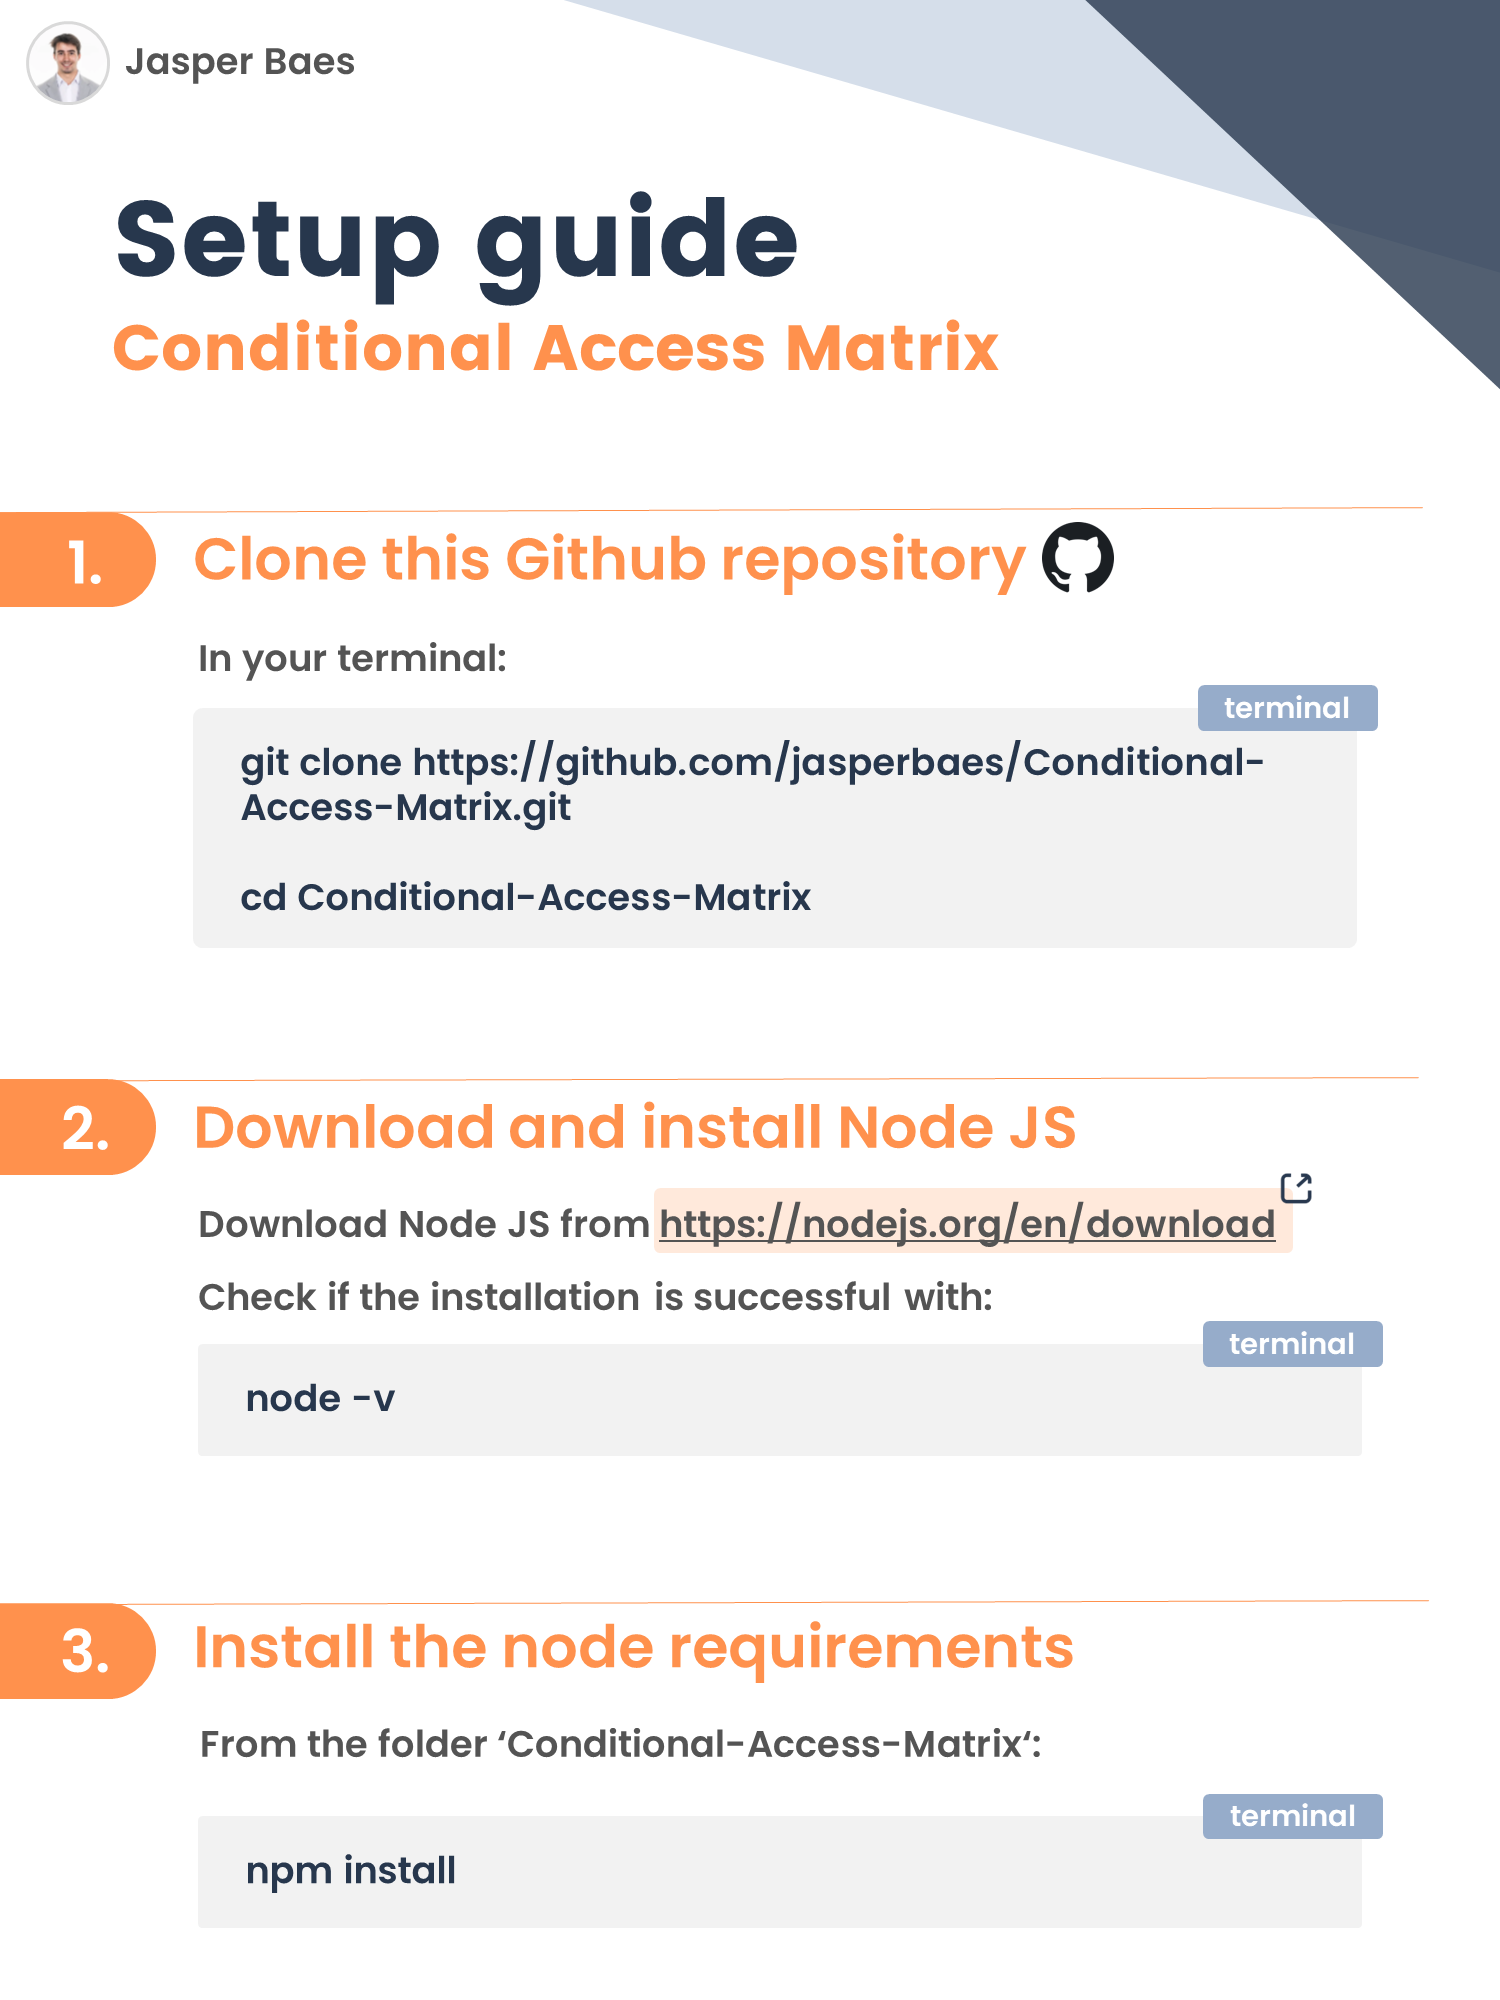
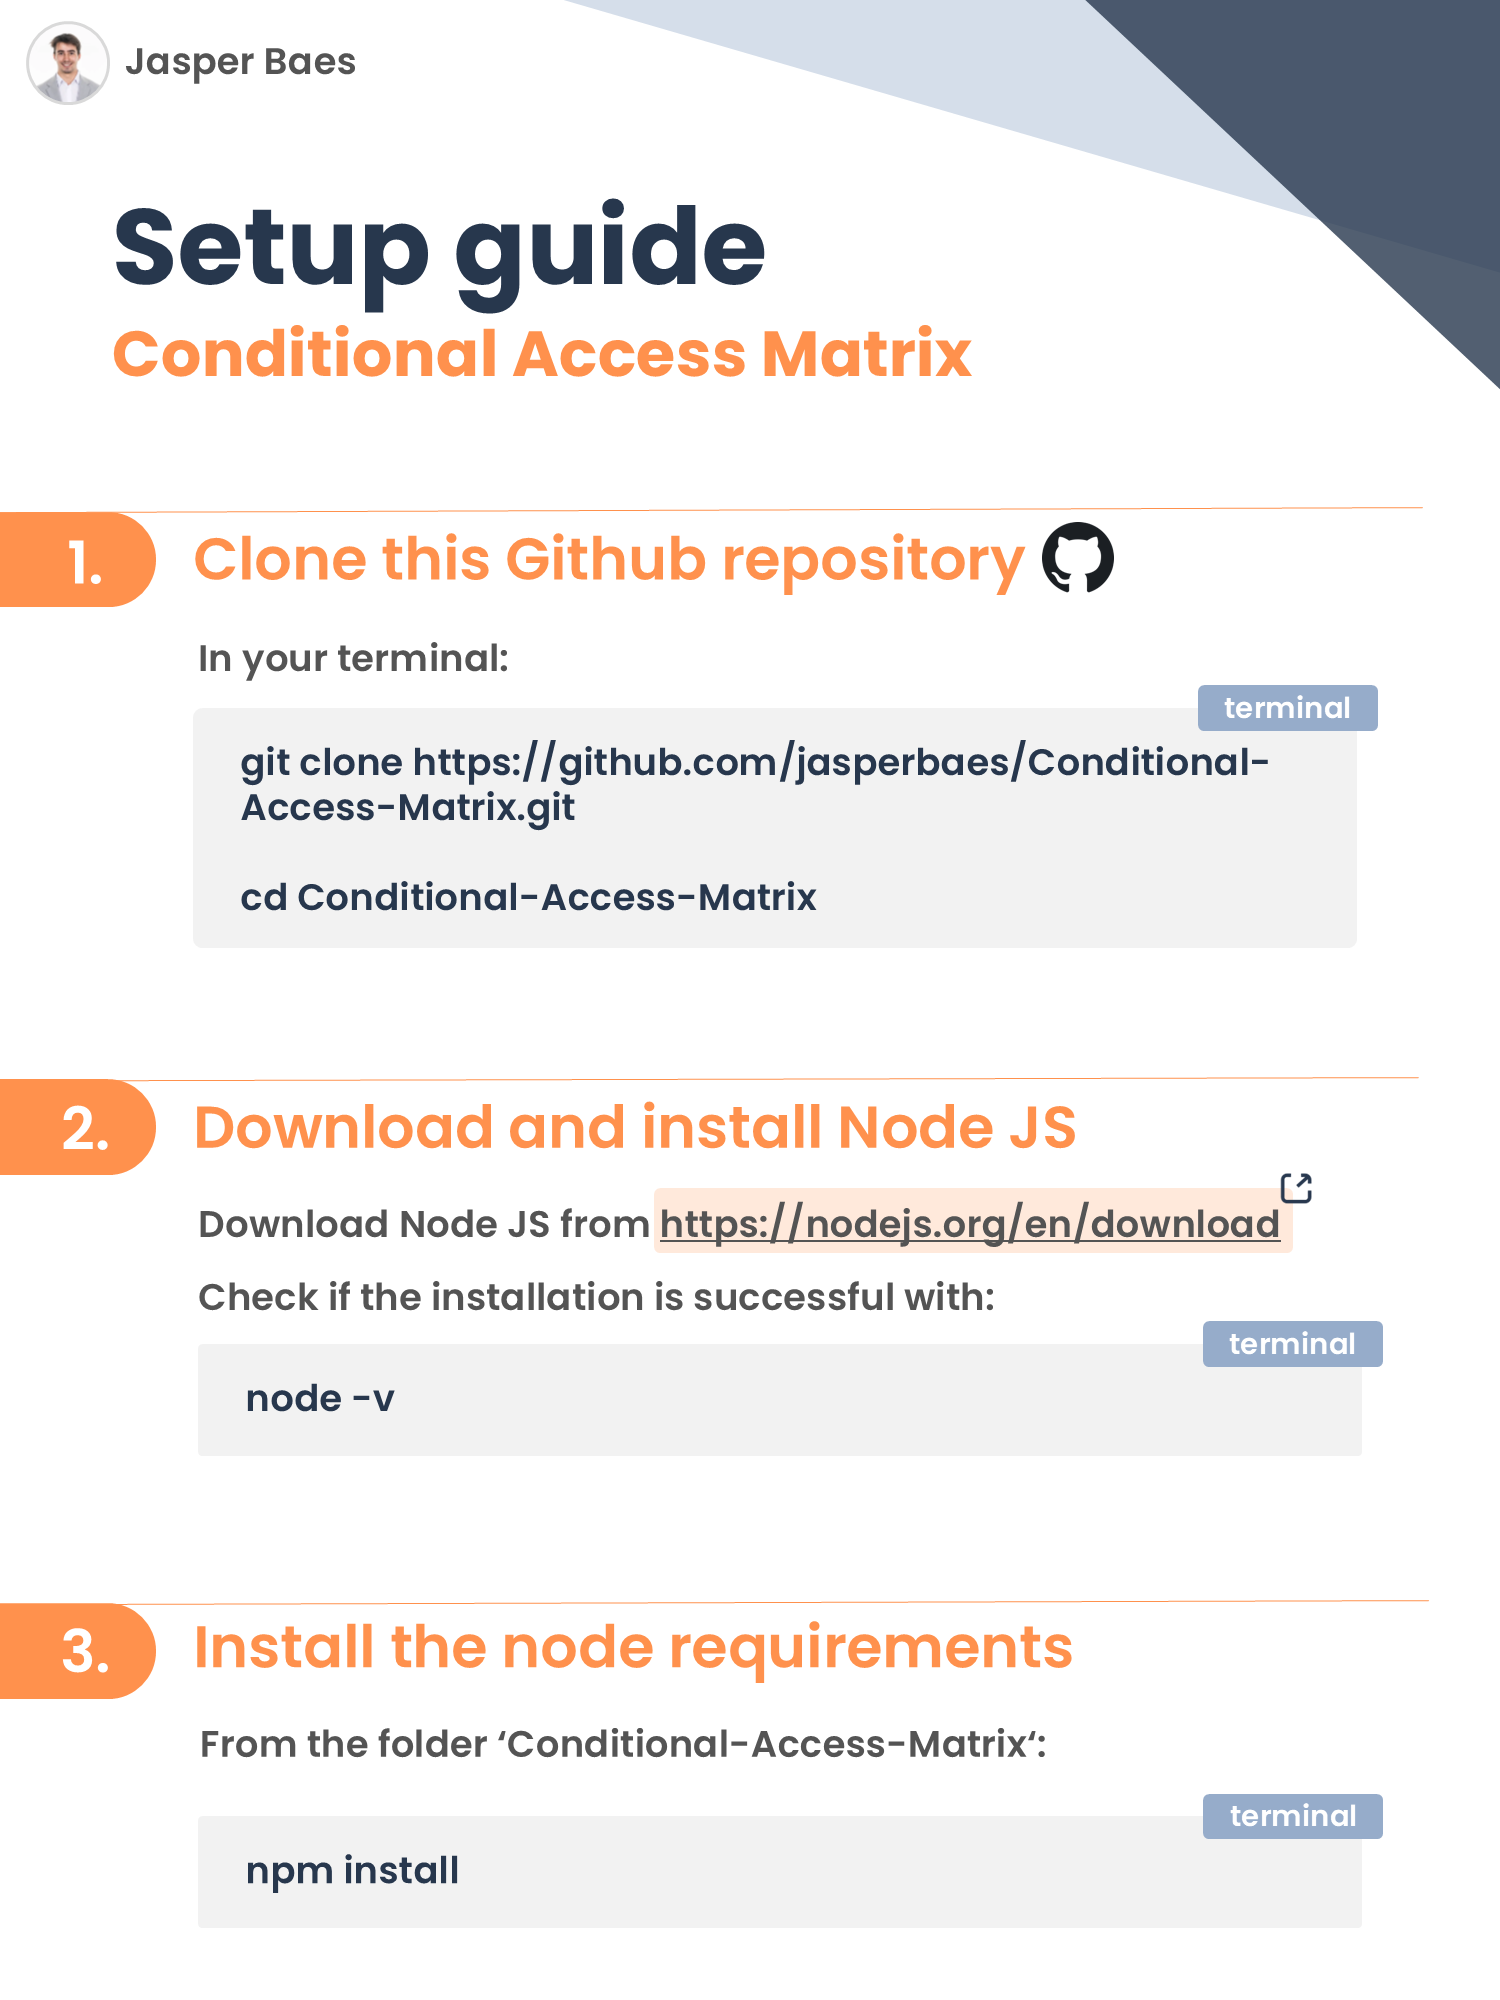
update documentation, add .env template file

diff --git a/index.js b/index.js
@@ -11,7 +11,7 @@ Dependencies: axios, msal-node, fs, json-2-csv
 */
 
 // version of the tool
-global.currentVersion = '2024.39.1'
+global.currentVersion = '2024.40.1'
 
 // Declare libaries
 require('dotenv').config();

diff --git a/README.md b/README.md
@@ -85,6 +85,9 @@ Jasper Baes (https://www.linkedin.com/in/jasper-baes)
 
 Release version numbers: YEAR-WEEK
 
+- 2024.40
+  - updated installation guide
+  - added .env template file
 - 2024.39
   - added parameter for 'report-only' CA policies
   - bugfix ([#1](https://github.com/jasperbaes/Conditional-Access-Matrix/issues/1))
